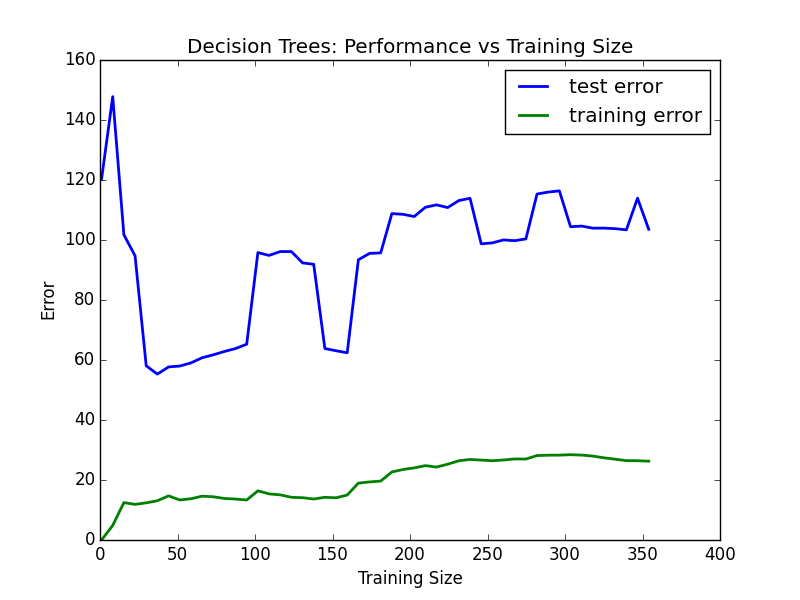
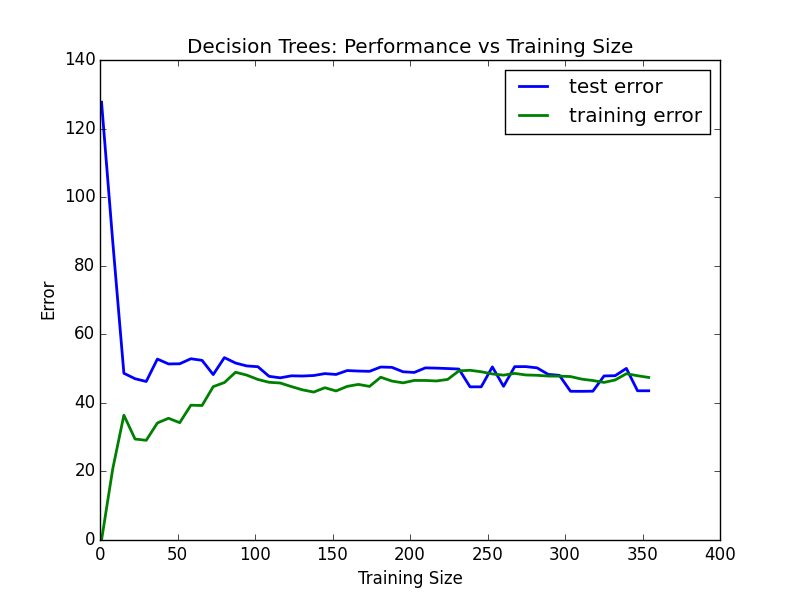
fix: fixed issues pertaining to testing and splitting the dataset
Detailed fixes include using gridsearch to identify best model. Changes to documentation. Changes to code to reflect a different approach from the previous iteration.

diff --git a/boston_housing.py b/boston_housing.py
@@ -79,11 +79,8 @@ def split_data(city_data):
     ###################################
     ### Step 3. YOUR CODE GOES HERE ###
     ###################################
-
-    offset = int(0.7*len(X))
-    X_train, y_train = X[:offset], y[:offset]
-    X_test, y_test = X[offset:], y[offset:]
-
+    X_train, X_test, y_train, y_test = train_test_split(
+         X, y, test_size=0.30, train_size=0.70, random_state=42)
     return X_train, y_train, X_test, y_test
 
 
@@ -200,7 +197,12 @@ def fit_predict_model(city_data):
     # 2. Use gridearch to fine tune the Decision Tree Regressor and find the best model
     # http://scikit-learn.org/stable/modules/generated/sklearn.grid_search.GridSearchCV.html#sklearn.grid_search.GridSearchCV
 
-    reg = grid_search.GridSearchCV(regressor, parameters, scoring='r2')
+    regressors = grid_search.GridSearchCV(regressor, parameters, scoring='mean_squared_error')
+
+    regressors.fit(X,y)
+
+    # pick the best
+    reg = regressors.best_estimator_
 
     # Fit the learner to the training data
     print "Final Model: "

diff --git a/README.md b/README.md
@@ -79,20 +79,31 @@ standard deviation for prices of house: 9.18801154528
 
 - Which measure of model performance is best to use for predicting Boston housing data and analyzing the errors? Why do you think this measurement most appropriate? Why might the other measurements not be appropriate here?
 
-I believe the best measure of performance would be the R-squared measure. I choose this over mean squarred error beacause I belive in the housing industry, prices seem to flucutuate erratically. Thus, rather than looking for a tight fit, it would be intuitive to look for a more relative fit. Other measurement which include median deviation and absolute error would not emphasize large errors like in the case of MSE and R-squared measure.
+In my previous iteration of the work I used r^2 but as the project demands a measure if the error, I believe using the mean squarred error would give us the best solution. The reason being MSE emphasises large error unlike absolute mean or median error. This is what is seen as ideal by most statisticians. However, another important aspect to see in the case of this project would be the measur that minimises the error the most. Therefore just the thought is not enough and we would need to see some kind of graphical proof for this.
+
+Mean Absolute Error             |  Mean Squarred Error  |  Median Absolute Error
+:-------------------------:|:-------------------------: | :-----------------------
+![](learning_curve_5_mean_absolute_error.png)  |  ![](learning_curve_5_mean_squarred_error.png) | ![](learning_curve_5_median_absolute_error.png)
 
 ---
 
 
 - Why is it important to split the Boston housing data into training and testing data? What happens if you do not do this?
 
-One of the biggest problems that could occur is overfitting. Hence, we should always split the data into training and testing. This would ensure that we don't cause a tight fit which could ultimately lead to a dismayal performance on the testing dataset.
+One of the biggest problems that could occur is overfitting or underfitting. If we were to not split the dataset, it would imply that we have used all our data for training and there is a high chance that our algorithm becomes tailor made to the given dataset. Thus, there could be a huge dip in the performance of the algorihtm on the test dataset.
+
+Some of the advantages that splitting the dataset gives us are as follows:
+
+- It allows us to check if we have undefit or overfit the data.
+- It provides a sense of validation for our model.
+- It suggests the level of performance measure one would expect from the test data. Thus, we are better prepared for the unknown data.
+
 
 ---
 
 - What does grid search do and why might you want to use it?
 
-Grid search helps in parameter tuning and the selecetion of appropriate model based on the parameters we wish to tune. While computing this, it also implemets cross validation folds, thus eliminating the risk of overfitting. It also has the flexibility of making a customised scorer function.
+Grid search helps in parameter tuning and the selecetion of appropriate model based on the parameters we wish to tune. While computing this, it also implemets cross validation folds, thus eliminating the risk of overfitting/underfitting. It also has the flexibility of making a customised scorer function.
 
 ---
 
@@ -100,25 +111,39 @@ Grid search helps in parameter tuning and the selecetion of appropriate model ba
 
 The goal of cross validation is to define a dataset to "test" the model in the training phase (i.e., the validation dataset), in order to limit problems like overfitting, give an insight on how the model will generalize to an independent dataset (i.e., an unknown dataset, for instance from a real problem), etc.
 
-Gird search performs 3-fold cross validation, hence we use it.
+Gird search performs 3-fold cross validation, hence we can easily validate the optimized parameter model generated by it. Cross validation ensures that we have a sufficiently good model and that we don't over or underfit the data in any way. Since, the gridsearch provides parameter optimization and uses crosss validation to provide the optimal parameters, we can be sure that there are no significant problems of underfitting or overfitting.
 
 ##  Analyzing Model Performance
 
 - Look at all learning curve graphs provided. What is the general trend of training and testing error as training size increases?
 
-As the training size increases, the error reduces and the model begins to predict better. This can be seen form the learning curves. With the increase in training size, the trainign error is almost 0 whereas the testing error continues to reduce. Thus, there is improvement in the regression model as training size increases.
+As the training size increases, the error reduces and the model begins to predict better. This can be seen form the learning curves. With the increase in max depth of the decision tree and training size, the training error is almost 0 whereas the testing error continues to reduce. Thus, there is improvement in the regression model as training size increases.
+
+This however, is the general trend for higher depths. In the beginning, we see that both the training and the testing error flattens out. Thus, as the training size increases there are errors in the testing dataset that increases.
 
 --- 
 
 - Look at the learning curves for the decision tree regressor with max depth 1 and 10 (first and last learning curve graphs). When the model is fully trained does it suffer from either high bias/underfitting or high variance/overfitting?
 
-I think we are underfitting. When we observe the mean squarred error, it fluctuates almost as if it looks like a cycle. This is a clear indication that a linear function is not sufficient for explaining the data.
+Lets analyze the scenario for max depth being 1:
+
+In this case, we are underfitting the dataset, both the training and test dataset has high errors and flattens out after a while. Thus, there is a high amount of bias when using max depth = 1. This is somewhat intuituive as we do not let the tree expand and we restrict the entropy or the learning value. Hence, with a depth levelof 1 we cannot the complexity of the dataset.
+
+![](learning_curve_1.png)
+
+Lets analyze the scenario for max depth being 10:
+
+Here, we are clearly overfitting. Using the same discussion above, since we allow increase in depth upto level 10, we are increasing the entropy levels. Thus, we see an error of 0 for training dataset. However, the testing data begins to flatten out with a few occassional spikes.
+
+![](learning_curve_10.png)
 
 ---
 
 - Look at the model complexity graph. How do the training and test error relate to increasing model complexity? Based on this relationship, which model (max depth) best generalizes the dataset and why?
 
-I think a max_depth between 5-10 generalises the dataset the best. It doesn't overfit as in the case of higher depths, we simply get a training error of 0. This means we are completly fitting the data and there is ahigh chance of overfitting.
+I think a max_depth between 5 generalises the dataset the best. It doesn't overfit as in the case of higher depths, we simply get a training error of 0. This means we are completly fitting the data and there is a high chance of overfitting. The model complxity graph verifies the above conclusion
+
+![](model_complexity.png)
 
 
 ## Model Prediction
@@ -129,26 +154,22 @@ I think a max_depth between 5-10 generalises the dataset the best. It doesn't ov
 
 Final Model:
 
-GridSearchCV(cv=None, error_score='raise',
-       estimator=DecisionTreeRegressor(criterion='mse',
-       	 max_depth=None, max_features=None,
-           max_leaf_nodes=None, min_samples_leaf=1,
-            min_samples_split=2,
+DecisionTreeRegressor(criterion='mse', max_depth=5, max_features=None,
+           max_leaf_nodes=None, min_samples_leaf=3, min_samples_split=1,
            min_weight_fraction_leaf=0.0, random_state=None,
-           splitter='best'),
-       fit_params={}, iid=True, loss_func=None, n_jobs=1,
-       param_grid={'min_samples_split': (1, 2, 3),
-        'max_depth': (1, 2, 3, 4, 5, 6, 7, 8, 9, 10),
-         'min_samples_leaf': (1, 2, 3)},
-       pre_dispatch='2*n_jobs', refit=True, score_func=None, scoring='r2',
-       verbose=0)
+           splitter='best')
 
 House: [11.95, 0.0, 18.1, 0, 0.659, 5.609, 90.0,
  1.385, 24, 680.0, 20.2, 332.09, 12.13]
-
 Prediction: [ 20.96776316]
 
 ```
+
+The final decision tree regressor uses the following optimized parameters:
+
+- max_depth:5
+- min_samples_leaf = 3
+- min_samples_split = 1
 
 ---
 
